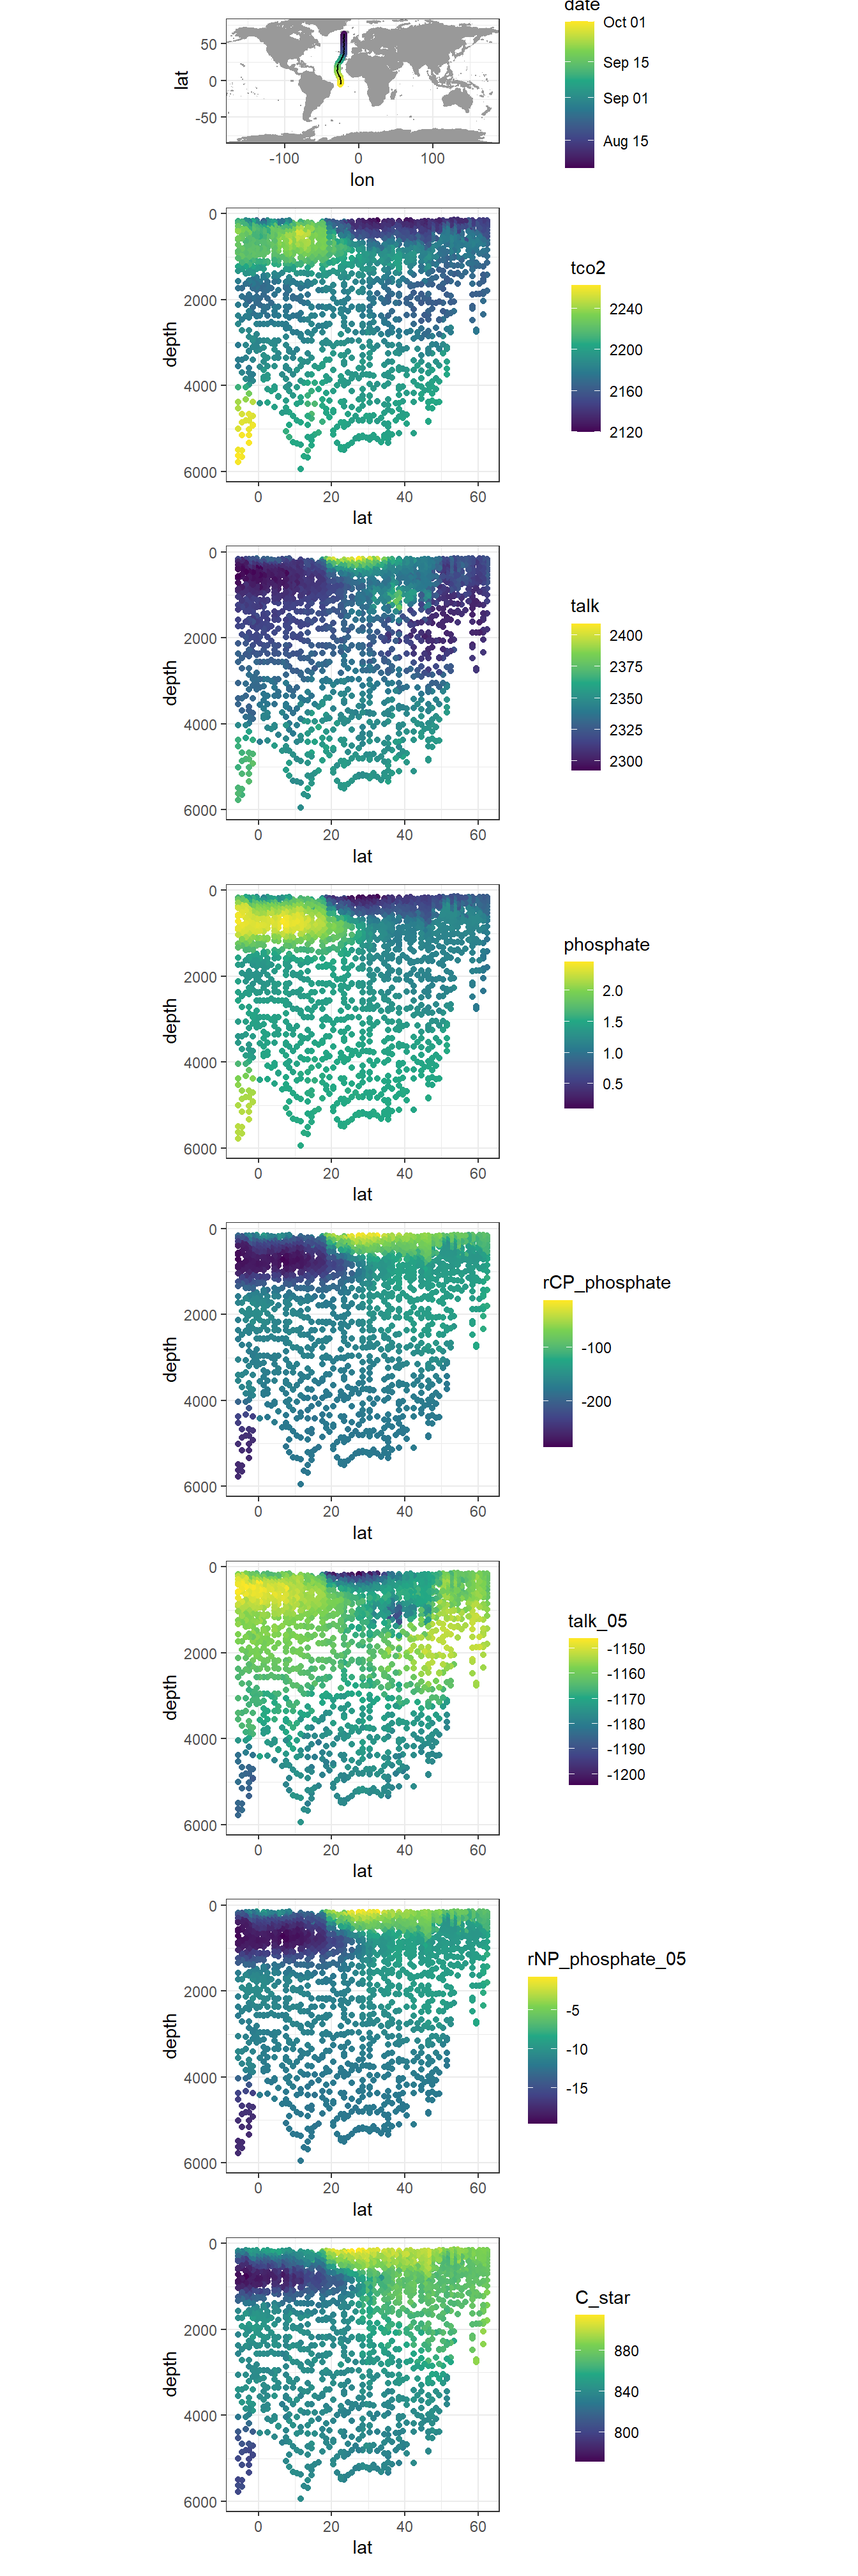
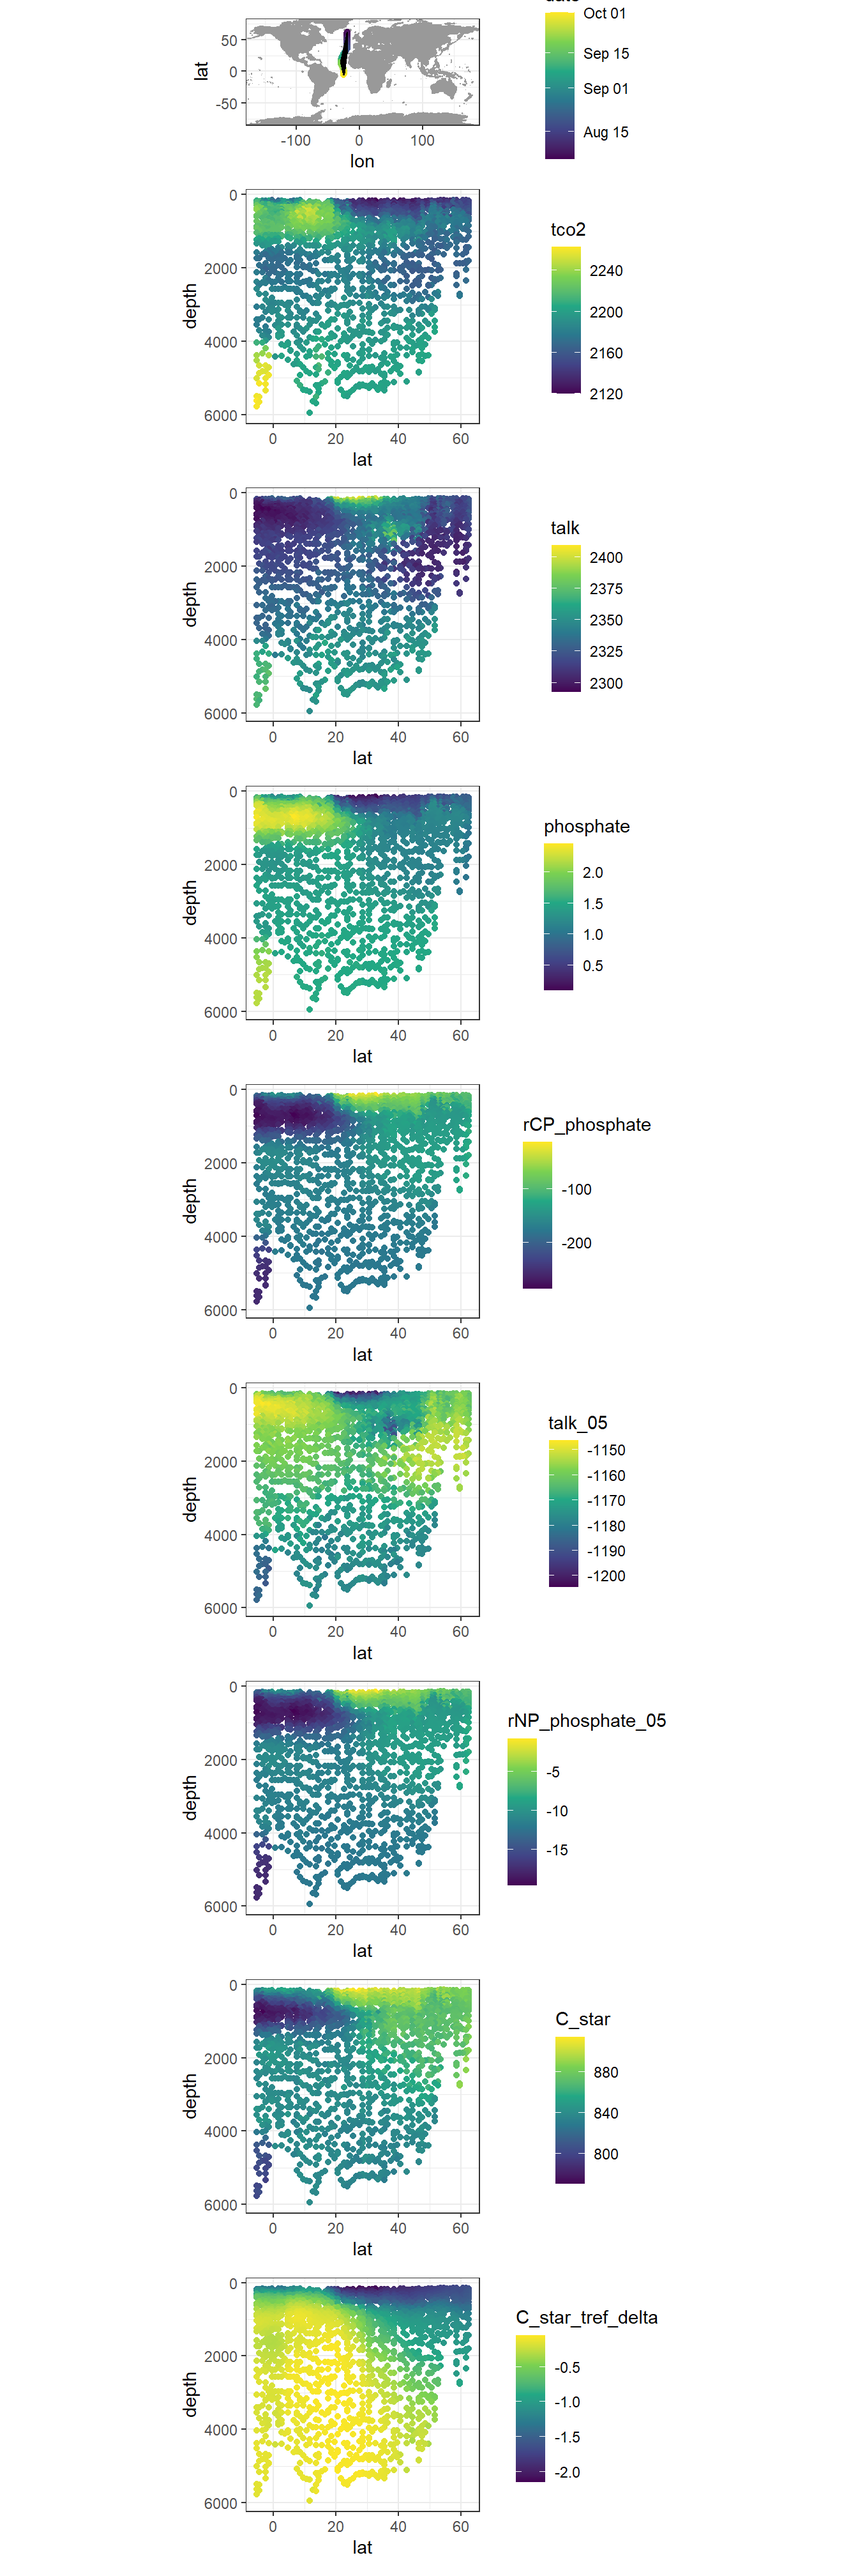
Build site.

diff --git a/docs/eMLR.html b/docs/eMLR.html
@@ -430,7 +430,7 @@ div.tocify {
 
 <h1 class="title toc-ignore">Data base</h1>
 <h4 class="author">Jens Daniel Müller</h4>
-<h4 class="date">21 July, 2020</h4>
+<h4 class="date">22 July, 2020</h4>
 
 </div>
 
@@ -455,7 +455,7 @@ div.tocify {
 <div class="tab-content">
 <div id="summary" class="tab-pane fade in active">
 <p>
-<strong>Last updated:</strong> 2020-07-21
+<strong>Last updated:</strong> 2020-07-22
 </p>
 <p>
 <strong>Checks:</strong> <span class="glyphicon glyphicon-ok text-success" aria-hidden="true"></span> 7 <span class="glyphicon glyphicon-exclamation-sign text-danger" aria-hidden="true"></span> 0
@@ -546,16 +546,16 @@ This reproducible <a href="http://rmarkdown.rstudio.com">R Markdown</a> analysis
 <div class="panel panel-default">
 <div class="panel-heading">
 <p class="panel-title">
-<a data-toggle="collapse" data-parent="#workflowr-checks" href="#strongRepositoryversionstrongahrefhttpsgithubcomjensdanielmuellerCanteMLRtreed2ed0f8d134eaeec211d3d09df9b3abcf89217detargetblankd2ed0f8a"> <span class="glyphicon glyphicon-ok text-success" aria-hidden="true"></span> <strong>Repository version:</strong> <a href="https://github.com/jens-daniel-mueller/Cant_eMLR/tree/d2ed0f8d134eaeec211d3d09df9b3abcf89217de" target="_blank">d2ed0f8</a> </a>
+<a data-toggle="collapse" data-parent="#workflowr-checks" href="#strongRepositoryversionstrongahrefhttpsgithubcomjensdanielmuellerCanteMLRtree8a49adf2468f6cddce169f540808fc3f43f6ea21targetblank8a49adfa"> <span class="glyphicon glyphicon-ok text-success" aria-hidden="true"></span> <strong>Repository version:</strong> <a href="https://github.com/jens-daniel-mueller/Cant_eMLR/tree/8a49adf2468f6cddce169f540808fc3f43f6ea21" target="_blank">8a49adf</a> </a>
 </p>
 </div>
[2 lines of base64/hex data omitted]
 <div class="panel-body">
 <p>
 Great! You are using Git for version control. Tracking code development and connecting the code version to the results is critical for reproducibility.
 </p>
 <p>
-The results in this page were generated with repository version <a href="https://github.com/jens-daniel-mueller/Cant_eMLR/tree/d2ed0f8d134eaeec211d3d09df9b3abcf89217de" target="_blank">d2ed0f8</a>. See the <em>Past versions</em> tab to see a history of the changes made to the R Markdown and HTML files.
+The results in this page were generated with repository version <a href="https://github.com/jens-daniel-mueller/Cant_eMLR/tree/8a49adf2468f6cddce169f540808fc3f43f6ea21" target="_blank">8a49adf</a>. See the <em>Past versions</em> tab to see a history of the changes made to the R Markdown and HTML files.
 </p>
 <p>
 Note that you need to be careful to ensure that all relevant files for the analysis have been committed to Git prior to generating the results (you can use <code>wflow_publish</code> or <code>wflow_git_commit</code>). workflowr only checks the R Markdown file, but you know if there are other scripts or data files that it depends on. Below is the status of the Git repository when the results were generated:
@@ -563,6 +563,7 @@ Note that you need to be careful to ensure that all relevant files for the analy
 <pre><code>
 Ignored files:
     Ignored:    .Rproj.user/
+    Ignored:    analysis/figure/
     Ignored:    data/GLODAPv2_2016b_MappedClimatologies/
     Ignored:    data/GLODAPv2_2020/
     Ignored:    data/World_Ocean_Atlas_2018/
@@ -607,6 +608,40 @@ Message
 </tr>
 </thead>
 <tbody>
+<tr>
+<td>
+Rmd
+</td>
+<td>
+<a href="https://github.com/jens-daniel-mueller/Cant_eMLR/blob/8a49adf2468f6cddce169f540808fc3f43f6ea21/analysis/eMLR.Rmd" target="_blank">8a49adf</a>
+</td>
+<td>
+jens-daniel-mueller
+</td>
+<td>
+2020-07-22
+</td>
+<td>
+adjustment to reference year implemented
+</td>
+</tr>
+<tr>
+<td>
+html
+</td>
+<td>
+<a href="https://rawcdn.githack.com/jens-daniel-mueller/Cant_eMLR/bb9c002323cd9e0b122f3a050ccac2f121d22177/docs/eMLR.html" target="_blank">bb9c002</a>
+</td>
+<td>
+jens-daniel-mueller
+</td>
+<td>
+2020-07-21
+</td>
+<td>
+Build site.
+</td>
+</tr>
 <tr>
 <td>
 Rmd
@@ -985,6 +1020,13 @@ library(patchwork)</code></pre>
 <h2><span class="header-section-number">1.2</span> GLODAP Cant climatology</h2>
 <pre class="r"><code>Cant_clim &lt;- read_csv(here::here(&quot;data/GLODAPv2_2016b_MappedClimatologies/_summarized_files&quot;,
                                  &quot;Cant.csv&quot;))</code></pre>
+<pre class="r"><code>Cant_clim &lt;- Cant_clim %&gt;% 
+  mutate(lon = if_else(lon&gt;180, lon - 360, lon))</code></pre>
+</div>
+<div id="atmospheric-pco2" class="section level2">
+<h2><span class="header-section-number">1.3</span> Atmospheric pCO2</h2>
+<pre class="r"><code>co2_atm &lt;- read_csv(here::here(&quot;data/pCO2_atmosphere/_summarized_data_files&quot;,
+                               &quot;co2_atm.csv&quot;))</code></pre>
 </div>
 </div>
 <div id="c" class="section level1">
@@ -1008,8 +1050,91 @@ rNP &lt;- 16</code></pre>
          C_star = tco2 + rCP_phosphate + talk_05 + rNP_phosphate_05)</code></pre>
 </div>
 </div>
+<div id="reference-year-adjustment" class="section level1">
+<h1><span class="header-section-number">3</span> Reference year adjustment</h1>
+<p>The scaling factor Cant_apriori at a given location and depth was estimated for each reference year from XXX. Note that eq. 6 in Clement and Gruber (2018) misses pCO2 pre-industrial in the denominator.</p>
+<div id="merge-data-sets" class="section level2">
+<h2><span class="header-section-number">3.1</span> Merge data sets</h2>
+<div id="cant" class="section level3">
+<h3><span class="header-section-number">3.1.1</span> Cant</h3>
+<pre class="r"><code>Cant_clim &lt;- Cant_clim %&gt;% 
+  drop_na()
+
+GLODAP_Cant_full &lt;- full_join(GLODAP, Cant_clim)</code></pre>
+<pre class="r"><code>GLODAP_Cant_observations_available &lt;- GLODAP_Cant_full %&gt;% 
+  group_by(lat, lon) %&gt;% 
+  mutate(n_GLODAP = sum(!is.na(C_star))) %&gt;% 
+  ungroup() %&gt;% 
+  filter(n_GLODAP &gt; 0) %&gt;% 
+  select(-n_GLODAP)
+
+rm(GLODAP_Cant_full)
+
+GLODAP_Cant_observations_available &lt;- GLODAP_Cant_observations_available %&gt;% 
+  group_by(lat, lon) %&gt;% 
+  arrange(depth) %&gt;% 
+  mutate(Cant_int = approxfun(depth, Cant, rule = 2)(depth)) %&gt;% 
+  ungroup()
+
+ggplot()+
+  geom_point(data = GLODAP_Cant_observations_available %&gt;% 
+              filter(lat == 48.5, lon == 165.5),
+            aes(Cant_int, depth, col=&quot;interpolated&quot;))+
+  geom_path(data = GLODAP_Cant_observations_available %&gt;% 
+              filter(lat == 48.5, lon == 165.5, !is.na(Cant)) %&gt;% 
+              arrange(depth),
+            aes(Cant, depth, col=&quot;mapped&quot;))+
+  geom_point(data = GLODAP_Cant_observations_available %&gt;% 
+              filter(lat == 48.5, lon == 165.5, !is.na(Cant)) %&gt;% 
+              arrange(depth),
+            aes(Cant, depth, col=&quot;mapped&quot;))+
+  scale_y_reverse()</code></pre>
+<p><img src="figure/eMLR.Rmd/interpolate_Cant_to_observations-1.png" width="672" style="display: block; margin: auto;" /></p>
+<pre class="r"><code>GLODAP &lt;- GLODAP_Cant_observations_available %&gt;% 
+  filter(!is.na(C_star)) %&gt;% 
+  mutate(Cant = Cant_int) %&gt;% 
+  select(-Cant_int)
+
+rm(GLODAP_Cant_observations_available, Cant_clim)</code></pre>
+</div>
+<div id="atm-pco2" class="section level3">
+<h3><span class="header-section-number">3.1.2</span> Atm pCO2</h3>
+<pre class="r"><code>GLODAP &lt;- full_join(GLODAP, co2_atm)
+#rm(co2_atm)</code></pre>
+</div>
+</div>
+<div id="perform-adjustment" class="section level2">
+<h2><span class="header-section-number">3.2</span> Perform adjustment</h2>
+<pre class="r"><code>GLODAP &lt;- GLODAP %&gt;% 
+  group_by(era) %&gt;% 
+  mutate(tref = median(year)) %&gt;% 
+  ungroup()
+
+tref &lt;- GLODAP %&gt;% 
+  filter(!is.na(era)) %&gt;% 
+  group_by(era) %&gt;% 
+  summarise(year = median(year)) %&gt;% 
+  ungroup()
+
+co2_atm_tref &lt;- right_join(co2_atm, tref) %&gt;% 
+  select(-year) %&gt;% 
+  rename(pCO2_tref = pCO2)
+
+GLODAP &lt;- full_join(GLODAP, co2_atm_tref)
+
+GLODAP &lt;- GLODAP %&gt;% 
+  mutate(C_star_tref_delta = 
+           ( (pCO2 - pCO2_tref) / (pCO2_tref - 280) ) * Cant,
+         C_star_tref = C_star - C_star_tref_delta)
+
+GLODAP %&gt;% 
+  ggplot(aes(C_star_tref_delta))+
+  geom_histogram()</code></pre>
+<p><img src="figure/eMLR.Rmd/adjust_reference_year-1.png" width="672" style="display: block; margin: auto;" /></p>
+</div>
+</div>
 <div id="selected-section-plots" class="section level1">
-<h1><span class="header-section-number">3</span> Selected section plots</h1>
+<h1><span class="header-section-number">4</span> Selected section plots</h1>
 <pre class="r"><code>cruises_meridional &lt;- c(&quot;1041&quot;)
 
 # cruises_meridional &lt;- c(&quot;1041&quot;,&quot;1042&quot;, &quot;260&quot;,
@@ -1056,23 +1181,12 @@ lat_rNP_phosphate_05 &lt;- lat_section+
 lat_C_star &lt;- lat_section+
   geom_point(aes(col=C_star))
 
-map / lat_tco2 / lat_talk / lat_phosphate / lat_rCP_phosphate /lat_talk_05 /lat_rNP_phosphate_05 / lat_C_star</code></pre>
+lat_C_star_tref &lt;- lat_section+
+  geom_point(aes(col=C_star_tref_delta))
+
+map / lat_tco2 / lat_talk / lat_phosphate / lat_rCP_phosphate /lat_talk_05 /lat_rNP_phosphate_05 / lat_C_star / lat_C_star_tref</code></pre>
 <p><img src="figure/eMLR.Rmd/meridional_sections-1.png" width="672" style="display: block; margin: auto;" /></p>
-<pre class="r"><code>rm(map, lat_tco2, lat_talk, lat_phosphate, lat_C_star)</code></pre>
-</div>
-<div id="reference-year-adjustment" class="section level1">
-<h1><span class="header-section-number">4</span> Reference year adjustment</h1>
-<p>The scaling factor Cant_apriori at a given location and depth was estimated for each reference year from XXX. Note that eq. 6 in Clement and Gruber (2018) misses pCO2 pre-industrial in the denominator.</p>
-<div id="merge-data-sets" class="section level2">
-<h2><span class="header-section-number">4.1</span> Merge data sets</h2>
-</div>
-<div id="perform-adjustment" class="section level2">
-<h2><span class="header-section-number">4.2</span> Perform adjustment</h2>
-<pre class="r"><code>GLODAP &lt;- GLODAP %&gt;% 
-  mutate(C_star_ref = C_star - 
-           ( (pCO2_atm(year) - pCO2_atm(year_ref)) / 
-               (pCO2_atm(year_ref) - pCO2_atm(year_pi) ) * Cant_ref)</code></pre>
-</div>
+<pre class="r"><code>rm(map, lat_tco2, lat_talk, lat_phosphate, lat_C_star, lat_C_star_tref)</code></pre>
 </div>
 <div id="mlr-fitting" class="section level1">
 <h1><span class="header-section-number">5</span> MLR fitting</h1>
@@ -1132,7 +1246,7 @@ loaded via a namespace (and not attached):
 [33] fansi_0.4.1       httr_1.4.1        compiler_3.6.3    here_0.1         
 [37] cli_2.0.2         withr_2.2.0       backports_1.1.5   munsell_0.5.0    
 [41] DBI_1.1.0         modelr_0.1.8      Rcpp_1.0.5        readxl_1.3.1     
-[45] dbplyr_1.4.4      maps_3.3.0        ellipsis_0.3.1    assertthat_0.2.1 
+[45] maps_3.3.0        dbplyr_1.4.4      ellipsis_0.3.1    assertthat_0.2.1 
 [49] blob_1.2.1        tools_3.6.3       reprex_0.3.0      viridisLite_0.3.0
 [53] httpuv_1.5.4      scales_1.1.1      crayon_1.3.4      glue_1.4.1       
 [57] rlang_0.4.7       rvest_0.3.5       promises_1.1.1    grid_3.6.3       </code></pre>
